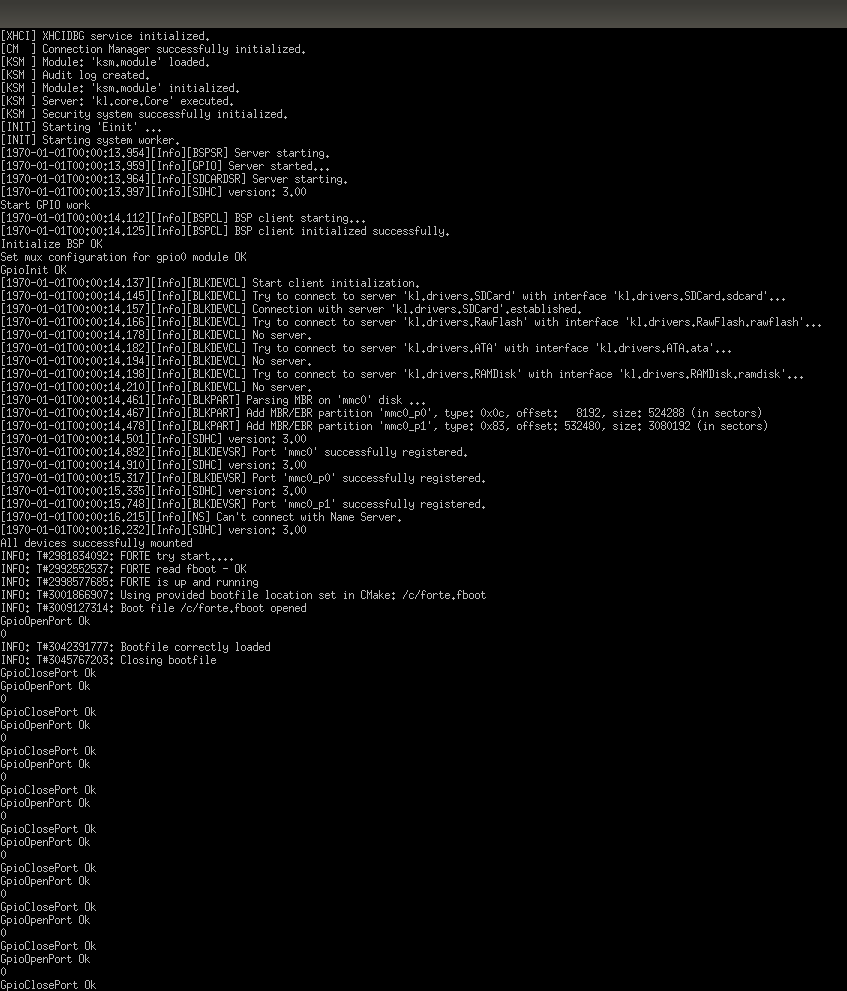
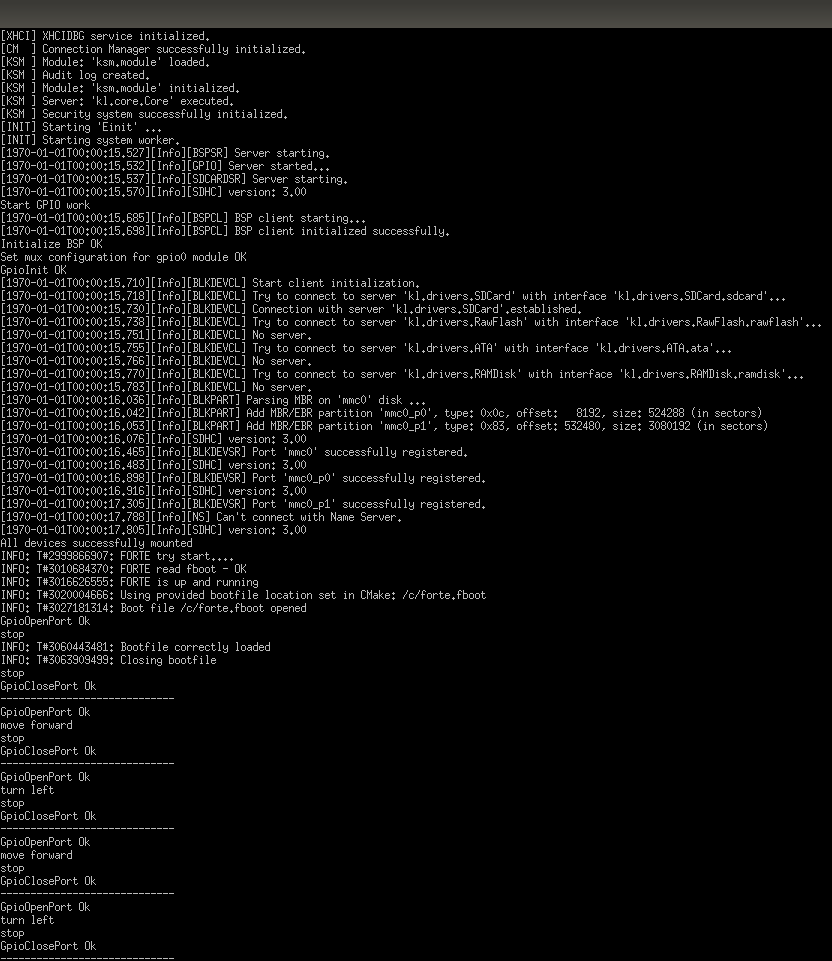
1_09 night

Changed region(s): [[0.0, 0.0312, 0.9688, 0.999]]

diff --git a/forte/src/modules/abot/FB_ABOT_ENGINE.cpp b/forte/src/modules/abot/FB_ABOT_ENGINE.cpp
@@ -49,6 +49,7 @@ void stop(){
     GpioOut(handle, 13, 0);
     GpioOut(handle, 20, 0);
     GpioOut(handle, 21, 0);
+    printf("stop\n");
 }
 
 void forward(){
@@ -56,6 +57,7 @@ void forward(){
     GpioOut(handle, 13, 0);
     GpioOut(handle, 20, 0);
     GpioOut(handle, 21, 1);
+    printf("move forward\n");
 }
 
 void back(){
@@ -63,6 +65,7 @@ void back(){
     GpioOut(handle, 13, 1);
     GpioOut(handle, 20, 1);
     GpioOut(handle, 21, 0);
+    printf("move back\n");
 }
 
 void turn_left(){
@@ -70,6 +73,7 @@ void turn_left(){
     GpioOut(handle, 13, 0);
     GpioOut(handle, 20, 0);
     GpioOut(handle, 21, 1);
+    printf("turn left\n");
 }
 
 void turn_right(){
@@ -77,6 +81,7 @@ void turn_right(){
     GpioOut(handle, 13, 0);
     GpioOut(handle, 20, 0);
     GpioOut(handle, 21, 0);
+    printf("turn right\n");
 }
 
 /*unsigned int ms2sec(unsigned int ms){
@@ -114,7 +119,6 @@ void FORTE_FB_ABOT_ENGINE::alg_REQ(void) {
   }
   else{
     printf("GpioOpenPort Ok\n");
-    fprintf(stderr, "%d\n", handle);
   }
 
   GpioSetMode(handle, 12, GPIO_DIR_OUT);
@@ -173,6 +177,7 @@ void FORTE_FB_ABOT_ENGINE::alg_REQ(void) {
   }
   else{
     printf("GpioClosePort Ok\n");
+    printf("-----------------------------\n");
   }
 }
 

diff --git a/README.md b/README.md
@@ -8,8 +8,8 @@ Before you begin, ensure that you have met the following requirements:
 - You have Debian GNU/Linux "Buster" 10.7
 
 ### Usage
-To build the example and run the resulting image use the cross-build.sh script.
-Expected output see on 1.png
+To build the example and run the resulting image use the cross-build.sh script.  
+Expected output see on 1.png and 2.png
 
 ### Authors
 Developed by: Slava Bogomolov  
